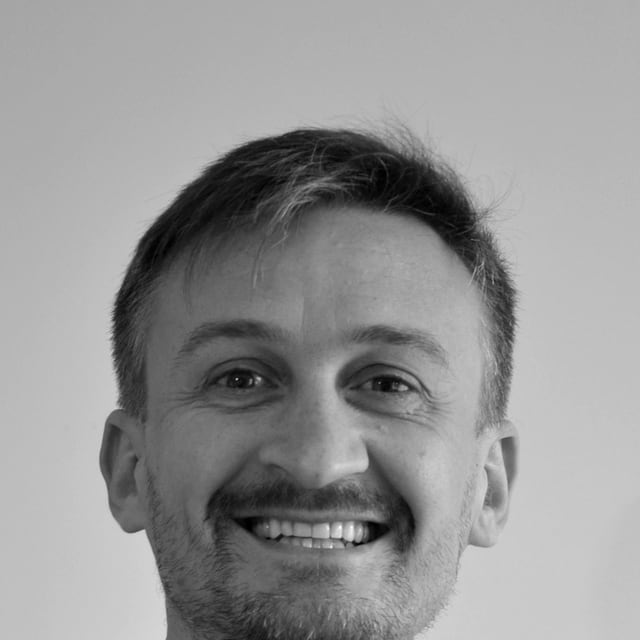
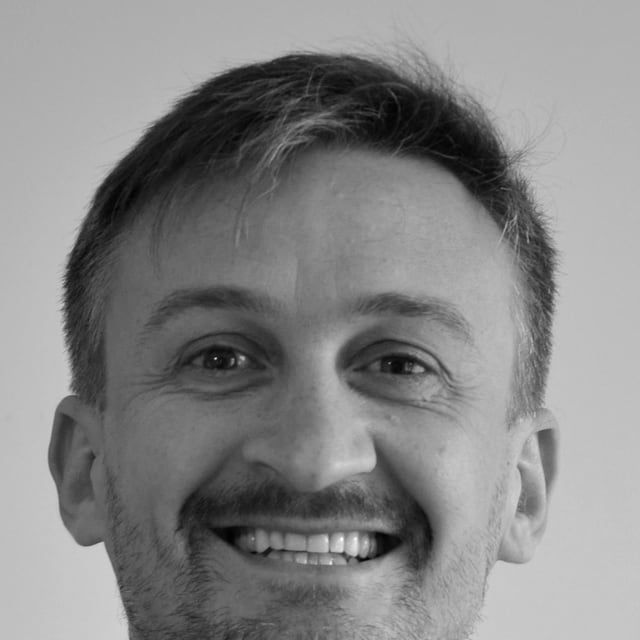
round the portrait and lift the face
No ring and no inset. The black-and-white crop sits higher in the circle so the face is centered.

diff --git a/components/medallion.tsx b/components/medallion.tsx
@@ -24,19 +24,18 @@ export function Medallion({ size = 48 }: MedallionProps) {
     >
       <defs>
         <clipPath id={clipId}>
-          <circle cx="32" cy="32" r="29" />
+          <circle cx="32" cy="32" r="32" />
         </clipPath>
       </defs>
       <image
         href="/img/face-mark.jpg"
-        x="1.4"
-        y="1.4"
-        width="61.2"
-        height="61.2"
+        x="0"
+        y="0"
+        width="64"
+        height="64"
         clipPath={`url(#${clipId})`}
         preserveAspectRatio="xMidYMid slice"
       />
-      <circle cx="32" cy="32" r="30.55" fill="none" stroke="currentColor" strokeWidth="1.15" />
     </svg>
   );
 
